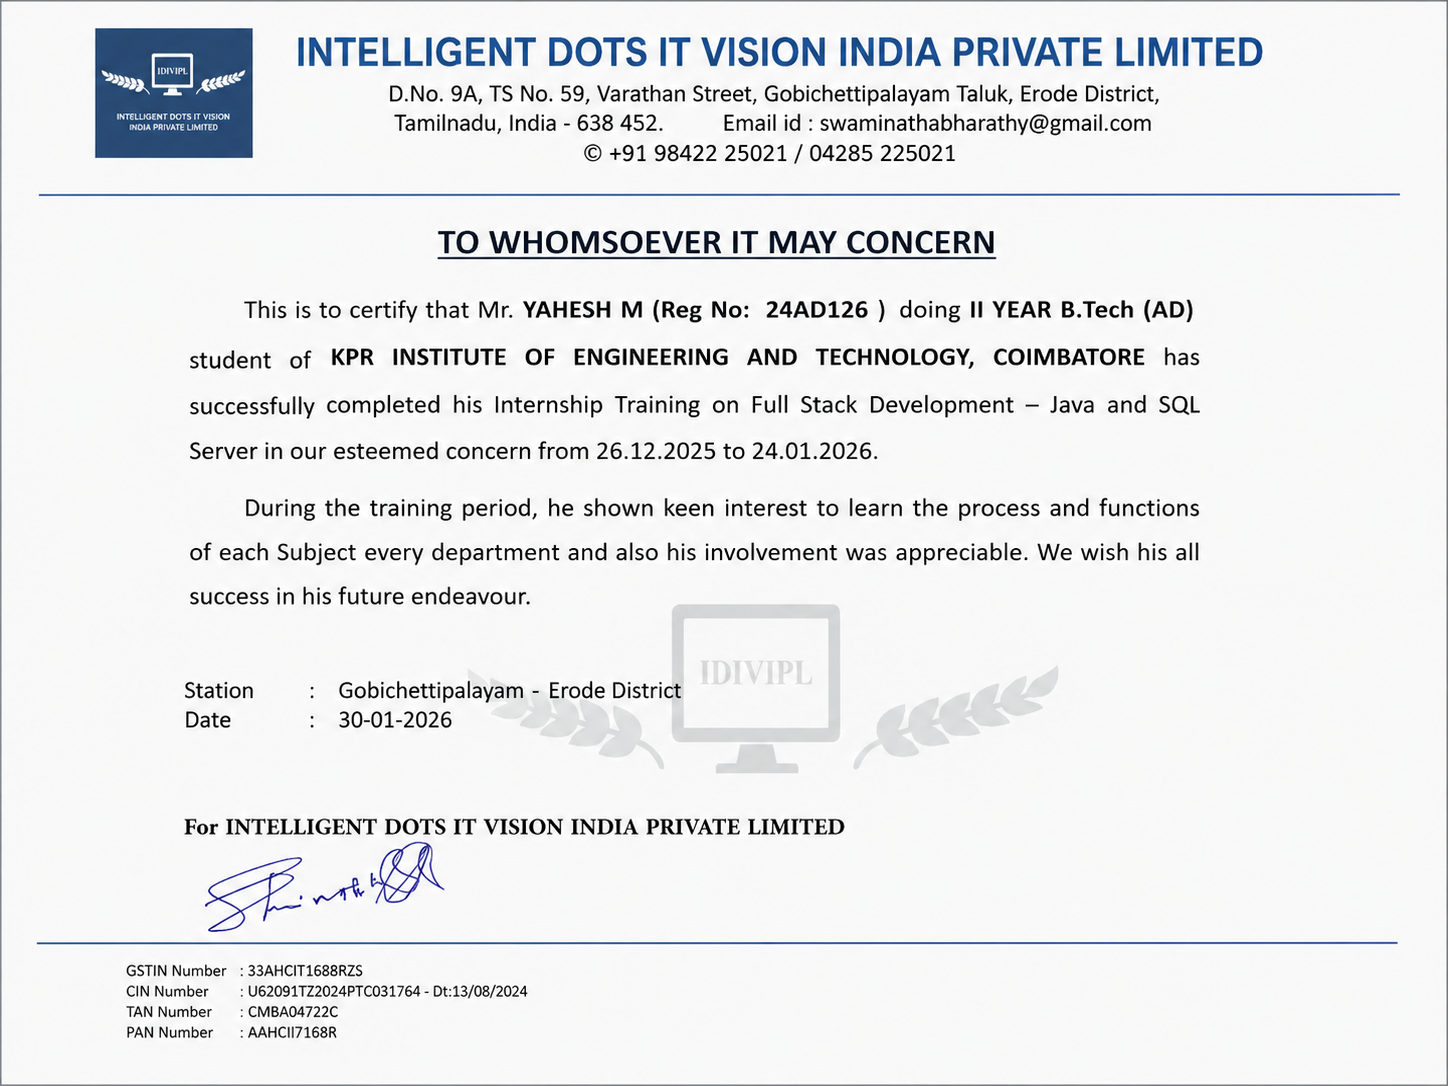
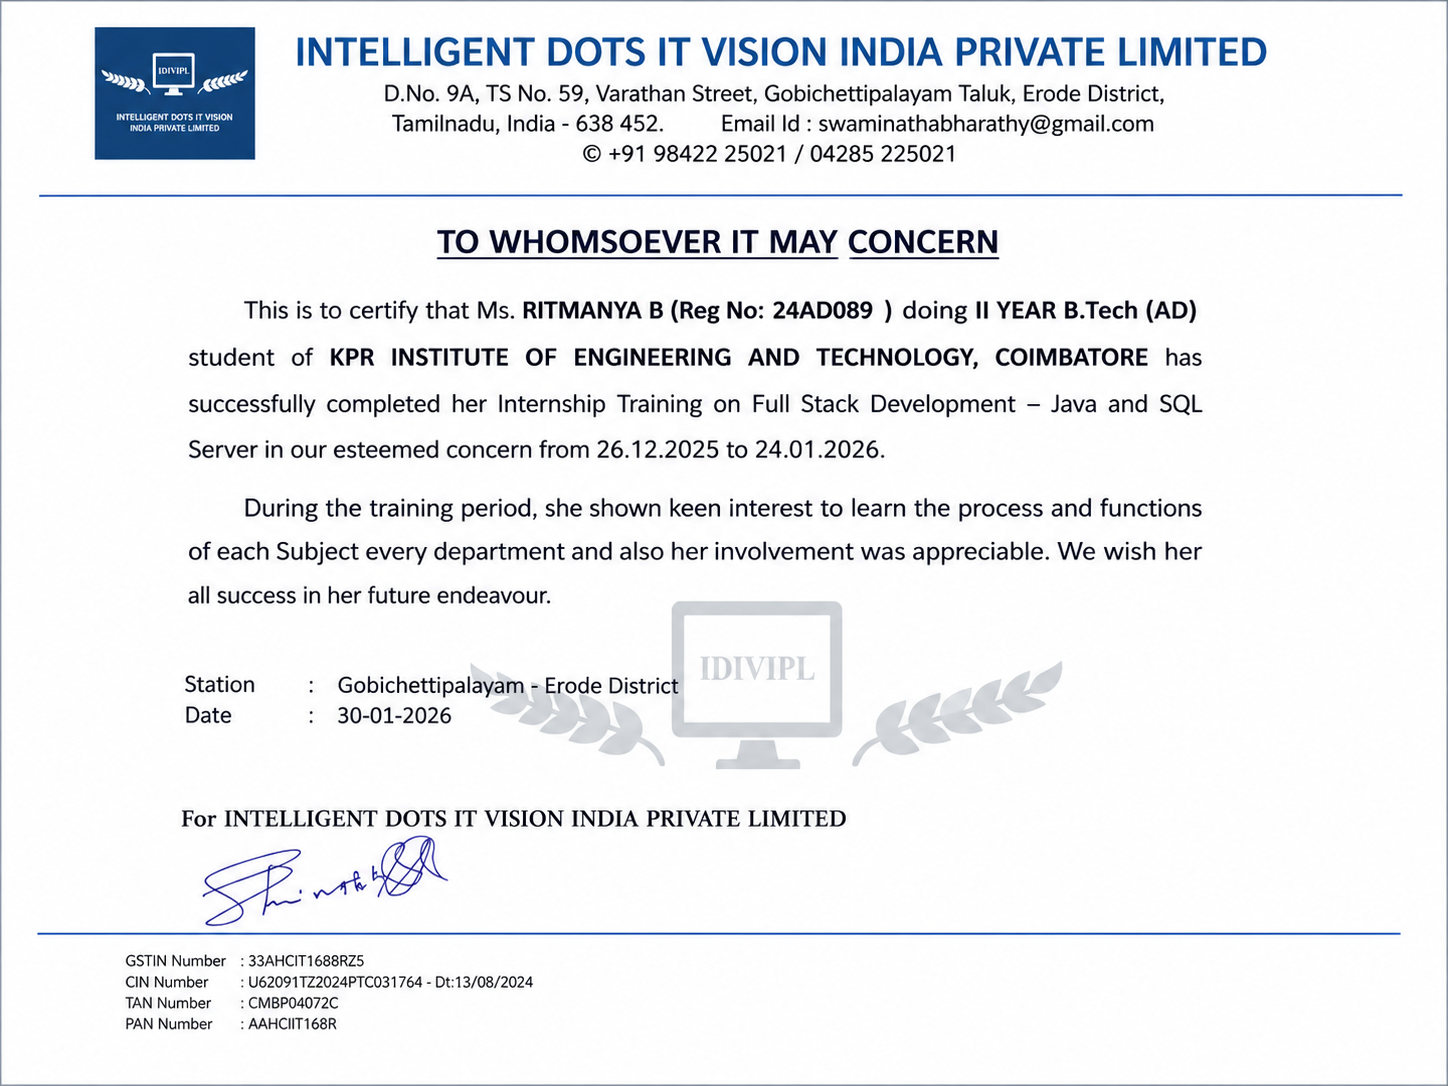
Everything is completed.

diff --git a/lib/data/experience.ts b/lib/data/experience.ts
@@ -34,7 +34,10 @@ export const experience: ExperienceItem[] = [
       "Worked to their branching, review and deploy conventions instead of my own",
       "Wrote the API and implementation docs",
     ],
-    certificateImage: "/certificates/idivpl-full-stack.jpg",
+    // ?v=2 cache-busts the next/image optimizer and the browser: the file
+    // was replaced in place, so the bare path kept serving the old optimized
+    // blob from .next/cache/images. Bump the number whenever the file changes.
+    certificateImage: "/certificates/idivpl-full-stack.jpg?v=2",
     // No external link yet — the card falls back to opening the certificate
     // image, which is honest. It used to link to example.com.
   },

diff --git a/lib/data/site.ts b/lib/data/site.ts
@@ -24,9 +24,9 @@ export const siteConfig = {
   resumeUrl:
     "https://drive.google.com/file/d/1lRq4DURBk0uSGj-DQ2bSbTGvIulCVm_U/view?usp=share_link",
   emailjs: {
-    publicKey: "pOGDSOwUFPiIxrTC1",
-    serviceId: "service_chb4oni",
-    templateId: "template_tmx3j6h",
+    publicKey: "N1dnOcOGhMHOqjuG9",
+    serviceId: "service_r57pyc6",
+    templateId: "template_bl05gcb",
   },
 } as const;
 
